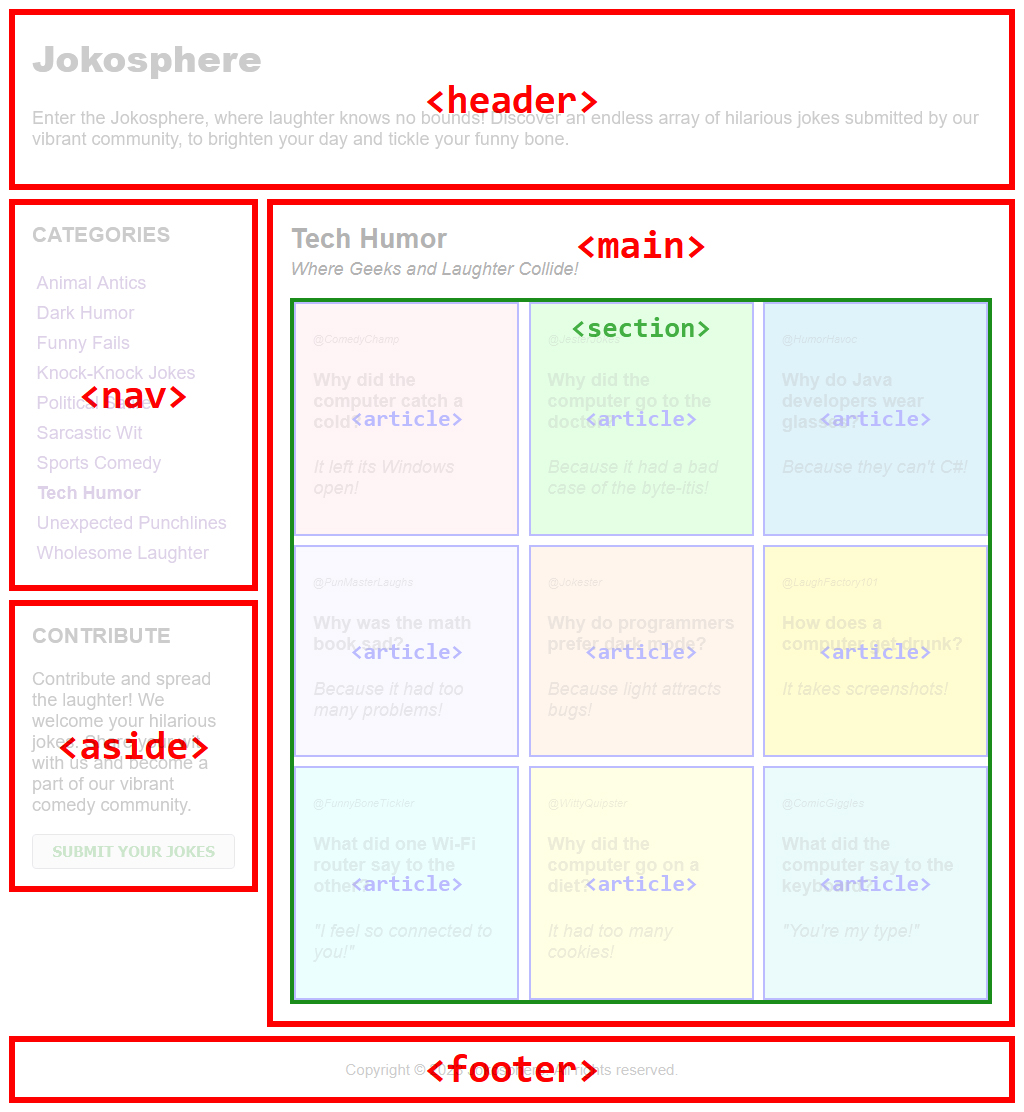
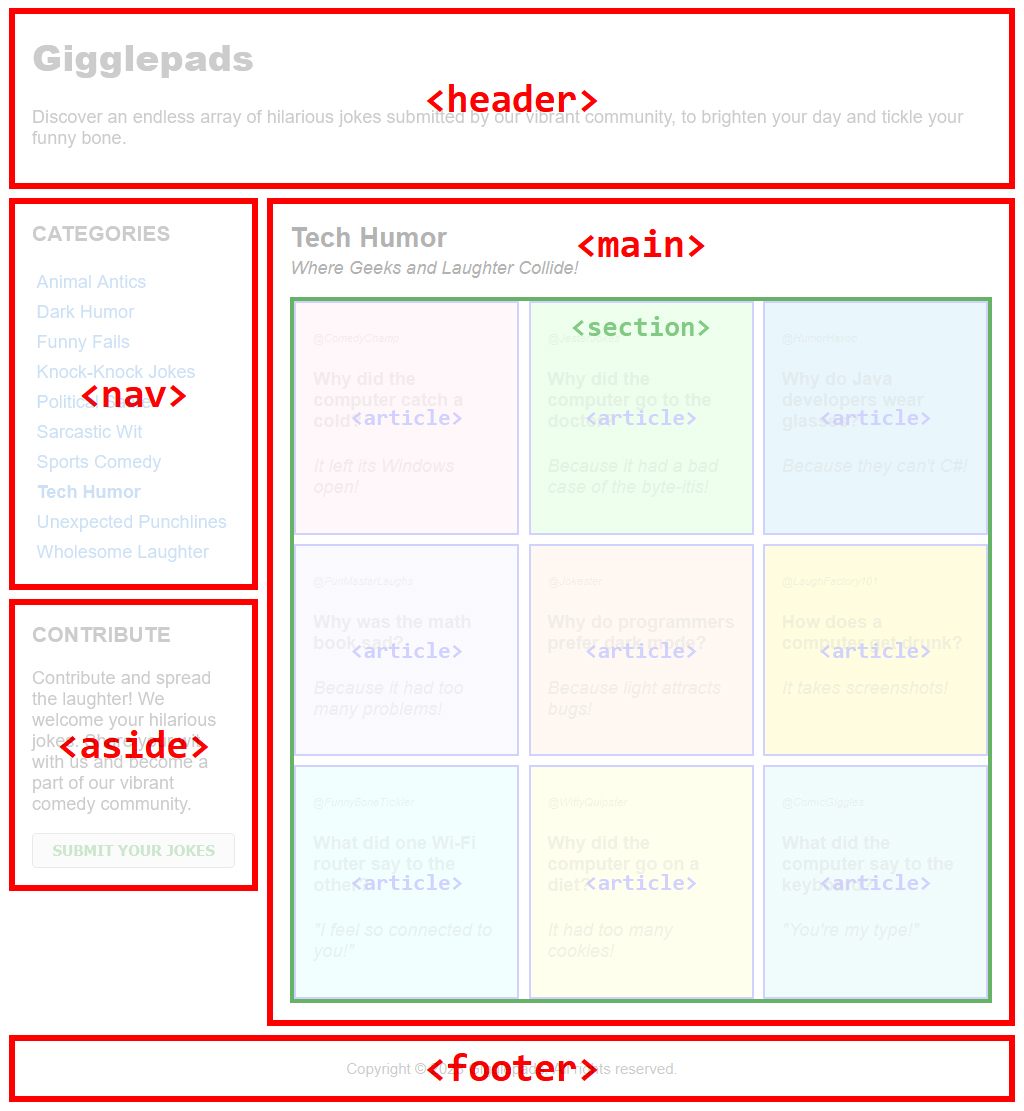
Update webpage name.

diff --git a/README.md b/README.md
@@ -1,5 +1,5 @@
 ## CSS | Activity #1 (Guided): Grid Layout, Colors, and Fonts
-In this activity, we will create a webpage called **Jokosphere** with the following content:
+In this activity, we will create a webpage called **Gigglepads** with the following content:
 
 ![final-output](assets/css-01--01-final-output.jpg)
 
@@ -53,7 +53,7 @@ We simply define the necessary HTML layout tags:
 <html lang="en">
 <head>
     <meta charset="UTF-8">
-    <title>Jokosphere</title>
+    <title>Gigglepads</title>
 </head>
 <body>
 <!-- Container (Grid) -->
@@ -61,9 +61,9 @@ We simply define the necessary HTML layout tags:
 
     <!-- Header -->
     <header>
-        <h1>Jokosphere</h1>
+        <h1>Gigglepads</h1>
         <p>
-            Enter the Jokosphere, where laughter knows no bounds!
+            Enter the Gigglepads, where laughter knows no bounds!
             Discover an endless array of hilarious jokes
             submitted by our vibrant community,
             to brighten your day and tickle your funny bone.
@@ -194,7 +194,7 @@ We simply define the necessary HTML layout tags:
 
     <!-- Footer -->
     <footer>
-        <small>Copyright &copy; 2023 Jokosphere. All rights reserved.</small>
+        <small>Copyright &copy; 2023 Gigglepads. All rights reserved.</small>
     </footer>
 
 </div>
